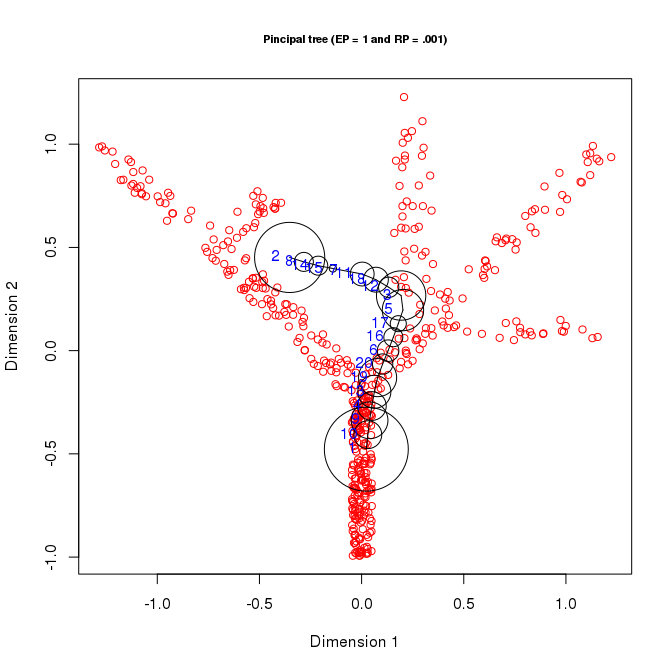
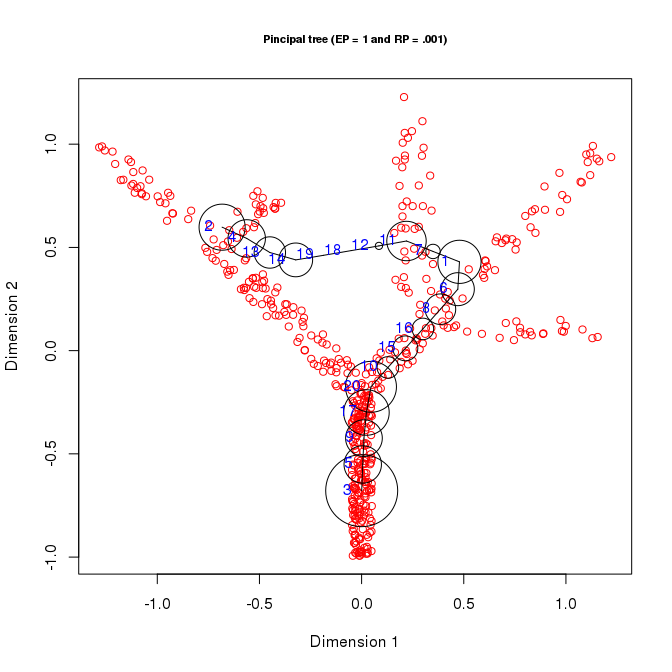
updated parameter variation

Changed region(s): [[0.3125, 0.3125, 0.7188, 0.7812], [0.2812, 0.3125, 0.3125, 0.3438]]

diff --git a/doc/javapar.md b/doc/javapar.md
@@ -80,15 +80,15 @@ plotData2D(Data = simple_tree, PrintGraph = Results[[1]] ,
 ![](javapar_files/figure-markdown_github/unnamed-chunk-6-1.png)
 
 ``` r
-Results <- computeElasticPrincipalGraph(Data = simple_tree, NumNodes = 20, Method = 'DefaultPrincipalTreeConfiguration', EP = 1, RP = .001)
+Results <- computeElasticPrincipalGraph(Data = simple_tree, NumNodes = 20, Method = 'DefaultPrincipalTreeConfiguration', EP = .2, RP = .01)
 ```
 
     ## [1] "Additional parameters found"
     ## $EP
-    ## [1] 1
+    ## [1] 0.2
     ## 
     ## $RP
-    ## [1] 0.001
+    ## [1] 0.01
     ## 
     ## [1] "EP set by user"
     ## [1] "RP set by user"
